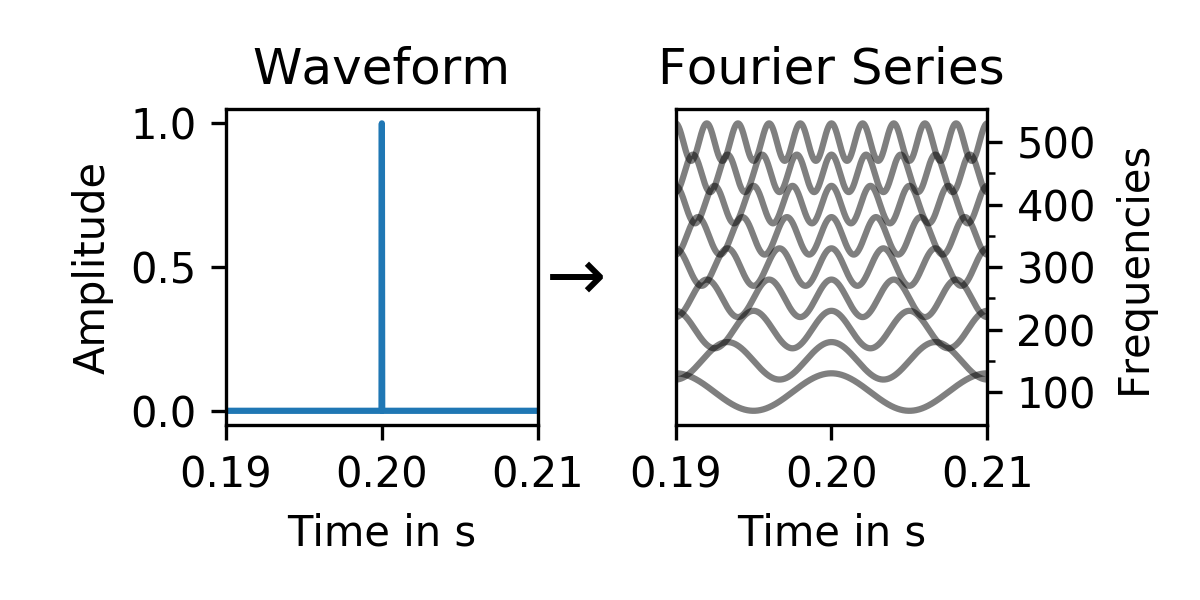
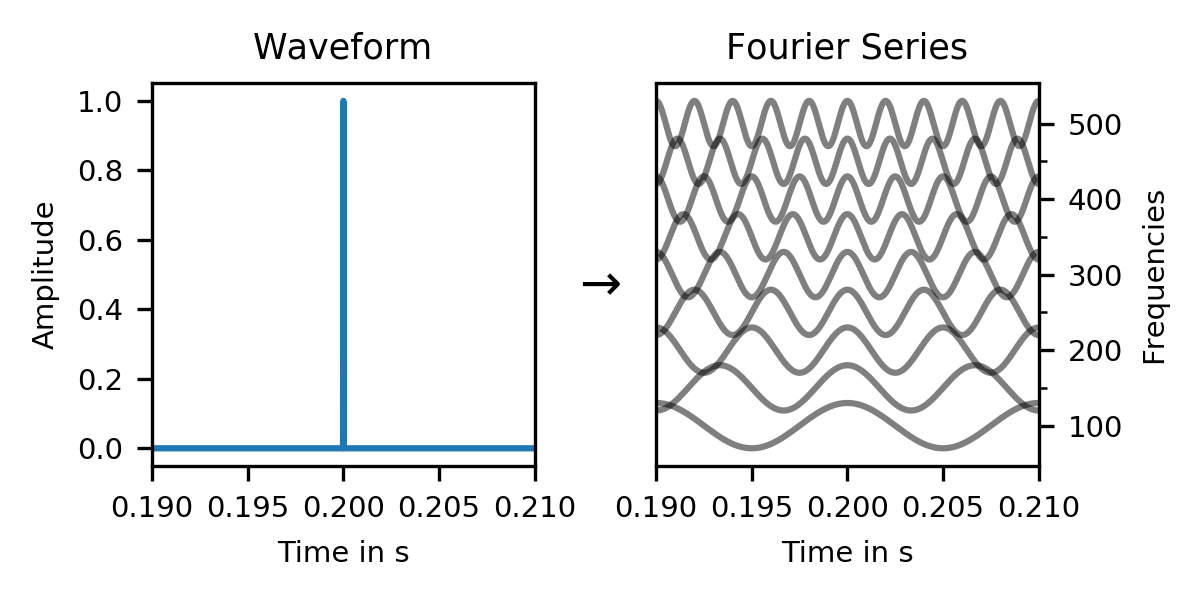
small edits

Changed region(s): [[0.0308, 0.06, 0.9867, 0.96]]

diff --git a/tag-signal-processing.html b/tag-signal-processing.html
@@ -31,7 +31,7 @@
 <h1 class="title">Posts tagged "signal-processing":</h1>
 <div class="post-date">19 Sep 2019</div><h1 class="post-title"><a href="2019-09-19-periodicity-and-harmonicity.html">Periodicity and Harmonicity</a></h1>
 <p>
-A periodic signal has a harmonic spectrum. In the extreme case, a click train signal has a comb spectrum.
+A periodic signal has a harmonic spectrum. In the extreme case, a click train signal has a comb spectrum:
 </p>
 
 
@@ -53,7 +53,7 @@ But why? After all, a solitary click has a uniform spectrum. So why should the s
 </figure>
 
 <p>
-The answer exposes a lot of detail of how spectra work, and give us a glimpse into the inner workings of spectral phases. Let's start with that click: In that spectrum, we see that we can decompose a click into a sum of sine waves:
+The answer exposes a lot of detail of how spectra work, and gives us a glimpse into the inner workings of spectral phases. Let's start with that click: In that spectrum, we see that we can decompose a click into a sum of sine waves:
 </p>
 
 
@@ -64,16 +64,16 @@ The answer exposes a lot of detail of how spectra work, and give us a glimpse in
 </figure>
 
 <p>
-As we have seen in the spectrum of the click earlier, it is composed of all frequencies (uniform spectrum). But we see here that the individual sine waves are delayed <i>just so</i>, that they all add constructively at exactly one time, and form the click. At all other times, they cancel each other out. This per-sine delay is called the phase of the sine.
+As we have seen in the spectrum of the click earlier, it is composed of all frequencies (uniform spectrum). But we see here that the individual sine waves are delayed <i>just so</i>, that they all add constructively at exactly one time, and form the click. At all other times, they cancel each other out. This per-sine delay is called the phase of that frequency.
 </p>
 
 <p>
-But what happens if we have more than one click? How does this change things?
+But what happens if we have more than one click? How does that change things?
 </p>
 
 
 <figure>
-<img src="https://bastibe.de/static/2019-09/train.png" alt="train.png">
+<img src="https://bastibe.de/static/2019-09/click_train.png" alt="click_train.png">
 
 <figcaption><span class="figure-number">Figure 4: </span>A click train (left), and its Fourier series (right). For simplicity, not all frequencies of the Fourier series are shown. The contributions of each click are shown in different colors.</figcaption>
 </figure>

diff --git a/2019-09-19-periodicity-and-harmonicity.html b/2019-09-19-periodicity-and-harmonicity.html
@@ -31,7 +31,7 @@
 <div id="content">
 <div class="post-date">19 Sep 2019</div><h1 class="post-title"><a href="2019-09-19-periodicity-and-harmonicity.html">Periodicity and Harmonicity</a></h1>
 <p>
-A periodic signal has a harmonic spectrum. In the extreme case, a click train signal has a comb spectrum.
+A periodic signal has a harmonic spectrum. In the extreme case, a click train signal has a comb spectrum:
 </p>
 
 
@@ -53,7 +53,7 @@ But why? After all, a solitary click has a uniform spectrum. So why should the s
 </figure>
 
 <p>
-The answer exposes a lot of detail of how spectra work, and give us a glimpse into the inner workings of spectral phases. Let's start with that click: In that spectrum, we see that we can decompose a click into a sum of sine waves:
+The answer exposes a lot of detail of how spectra work, and gives us a glimpse into the inner workings of spectral phases. Let's start with that click: In that spectrum, we see that we can decompose a click into a sum of sine waves:
 </p>
 
 
@@ -64,16 +64,16 @@ The answer exposes a lot of detail of how spectra work, and give us a glimpse in
 </figure>
 
 <p>
-As we have seen in the spectrum of the click earlier, it is composed of all frequencies (uniform spectrum). But we see here that the individual sine waves are delayed <i>just so</i>, that they all add constructively at exactly one time, and form the click. At all other times, they cancel each other out. This per-sine delay is called the phase of the sine.
+As we have seen in the spectrum of the click earlier, it is composed of all frequencies (uniform spectrum). But we see here that the individual sine waves are delayed <i>just so</i>, that they all add constructively at exactly one time, and form the click. At all other times, they cancel each other out. This per-sine delay is called the phase of that frequency.
 </p>
 
 <p>
-But what happens if we have more than one click? How does this change things?
+But what happens if we have more than one click? How does that change things?
 </p>
 
 
 <figure>
-<img src="https://bastibe.de/static/2019-09/train.png" alt="train.png">
+<img src="https://bastibe.de/static/2019-09/click_train.png" alt="click_train.png">
 
 <figcaption><span class="figure-number">Figure 4: </span>A click train (left), and its Fourier series (right). For simplicity, not all frequencies of the Fourier series are shown. The contributions of each click are shown in different colors.</figcaption>
 </figure>

diff --git a/index.html b/index.html
@@ -31,7 +31,7 @@
 
 <div class="post-date">19 Sep 2019</div><h1 class="post-title"><a href="2019-09-19-periodicity-and-harmonicity.html">Periodicity and Harmonicity</a></h1>
 <p>
-A periodic signal has a harmonic spectrum. In the extreme case, a click train signal has a comb spectrum.
+A periodic signal has a harmonic spectrum. In the extreme case, a click train signal has a comb spectrum:
 </p>
 
 
@@ -53,7 +53,7 @@ But why? After all, a solitary click has a uniform spectrum. So why should the s
 </figure>
 
 <p>
-The answer exposes a lot of detail of how spectra work, and give us a glimpse into the inner workings of spectral phases. Let's start with that click: In that spectrum, we see that we can decompose a click into a sum of sine waves:
+The answer exposes a lot of detail of how spectra work, and gives us a glimpse into the inner workings of spectral phases. Let's start with that click: In that spectrum, we see that we can decompose a click into a sum of sine waves:
 </p>
 
 
@@ -64,16 +64,16 @@ The answer exposes a lot of detail of how spectra work, and give us a glimpse in
 </figure>
 
 <p>
-As we have seen in the spectrum of the click earlier, it is composed of all frequencies (uniform spectrum). But we see here that the individual sine waves are delayed <i>just so</i>, that they all add constructively at exactly one time, and form the click. At all other times, they cancel each other out. This per-sine delay is called the phase of the sine.
+As we have seen in the spectrum of the click earlier, it is composed of all frequencies (uniform spectrum). But we see here that the individual sine waves are delayed <i>just so</i>, that they all add constructively at exactly one time, and form the click. At all other times, they cancel each other out. This per-sine delay is called the phase of that frequency.
 </p>
 
 <p>
-But what happens if we have more than one click? How does this change things?
+But what happens if we have more than one click? How does that change things?
 </p>
 
 
 <figure>
-<img src="https://bastibe.de/static/2019-09/train.png" alt="train.png">
+<img src="https://bastibe.de/static/2019-09/click_train.png" alt="click_train.png">
 
 <figcaption><span class="figure-number">Figure 4: </span>A click train (left), and its Fourier series (right). For simplicity, not all frequencies of the Fourier series are shown. The contributions of each click are shown in different colors.</figcaption>
 </figure>

diff --git a/static/2019-09/click_train.py b/static/2019-09/click_train.py
@@ -1,7 +1,8 @@
 from matplotlib import pyplot
 import numpy
-import signals
-import scipy.signal
+import matplotlib
+
+matplotlib.rcParams['font.size'] = 7
 
 fig, (ax1, ax2) = pyplot.subplots(ncols=2, sharex=True, figsize=[4, 2])
 
@@ -33,8 +34,9 @@ ax2.set(yticks=numpy.arange(0, 0.45, 0.1), yticklabels=numpy.arange(100, 550, 10
 ax2.set_yticks(numpy.arange(0, 0.45, 0.05), minor=True)
 ax2.yaxis.tick_right()
 ax2.yaxis.set_label_position("right")
+ax2.set(xticks=[0.2, 0.21, 0.22])
 
-ax1.annotate("→", (0.48, 0.5), xycoords='figure fraction',
+ax1.annotate("→", (0.5, 0.5), xycoords='figure fraction',
              horizontalalignment='center', fontsize='xx-large')
 
 fig.tight_layout()

diff --git a/static/2019-09/click_sum.py b/static/2019-09/click_sum.py
@@ -1,7 +1,8 @@
 from matplotlib import pyplot
 import numpy
-import signals
-import scipy.signal
+import matplotlib
+
+matplotlib.rcParams['font.size'] = 7
 
 fig, (ax1, ax2) = pyplot.subplots(ncols=2, sharex=True, figsize=[4, 2])
 
@@ -27,7 +28,7 @@ ax2.set_yticks(numpy.arange(0, 0.45, 0.05), minor=True)
 ax2.yaxis.tick_right()
 ax2.yaxis.set_label_position("right")
 
-ax1.annotate("→", (0.48, 0.5), xycoords='figure fraction',
+ax1.annotate("→", (0.5, 0.5), xycoords='figure fraction',
              horizontalalignment='center', fontsize='xx-large')
 
 fig.tight_layout()

diff --git a/static/2019-09/click.py b/static/2019-09/click.py
@@ -2,6 +2,9 @@ from matplotlib import pyplot
 import numpy
 import signals
 import scipy.signal
+import matplotlib
+
+matplotlib.rcParams['font.size'] = 7
 
 fig, (ax1, ax2) = pyplot.subplots(ncols=2, sharex=True, figsize=[4, 2])
 

diff --git a/static/2019-09/comb.py b/static/2019-09/comb.py
@@ -2,6 +2,9 @@ from matplotlib import pyplot
 import numpy
 import signals
 import scipy.signal
+import matplotlib
+
+matplotlib.rcParams['font.size'] = 7
 
 fig, (ax1, ax2) = pyplot.subplots(ncols=2, sharex=True, figsize=[4, 2])
 
